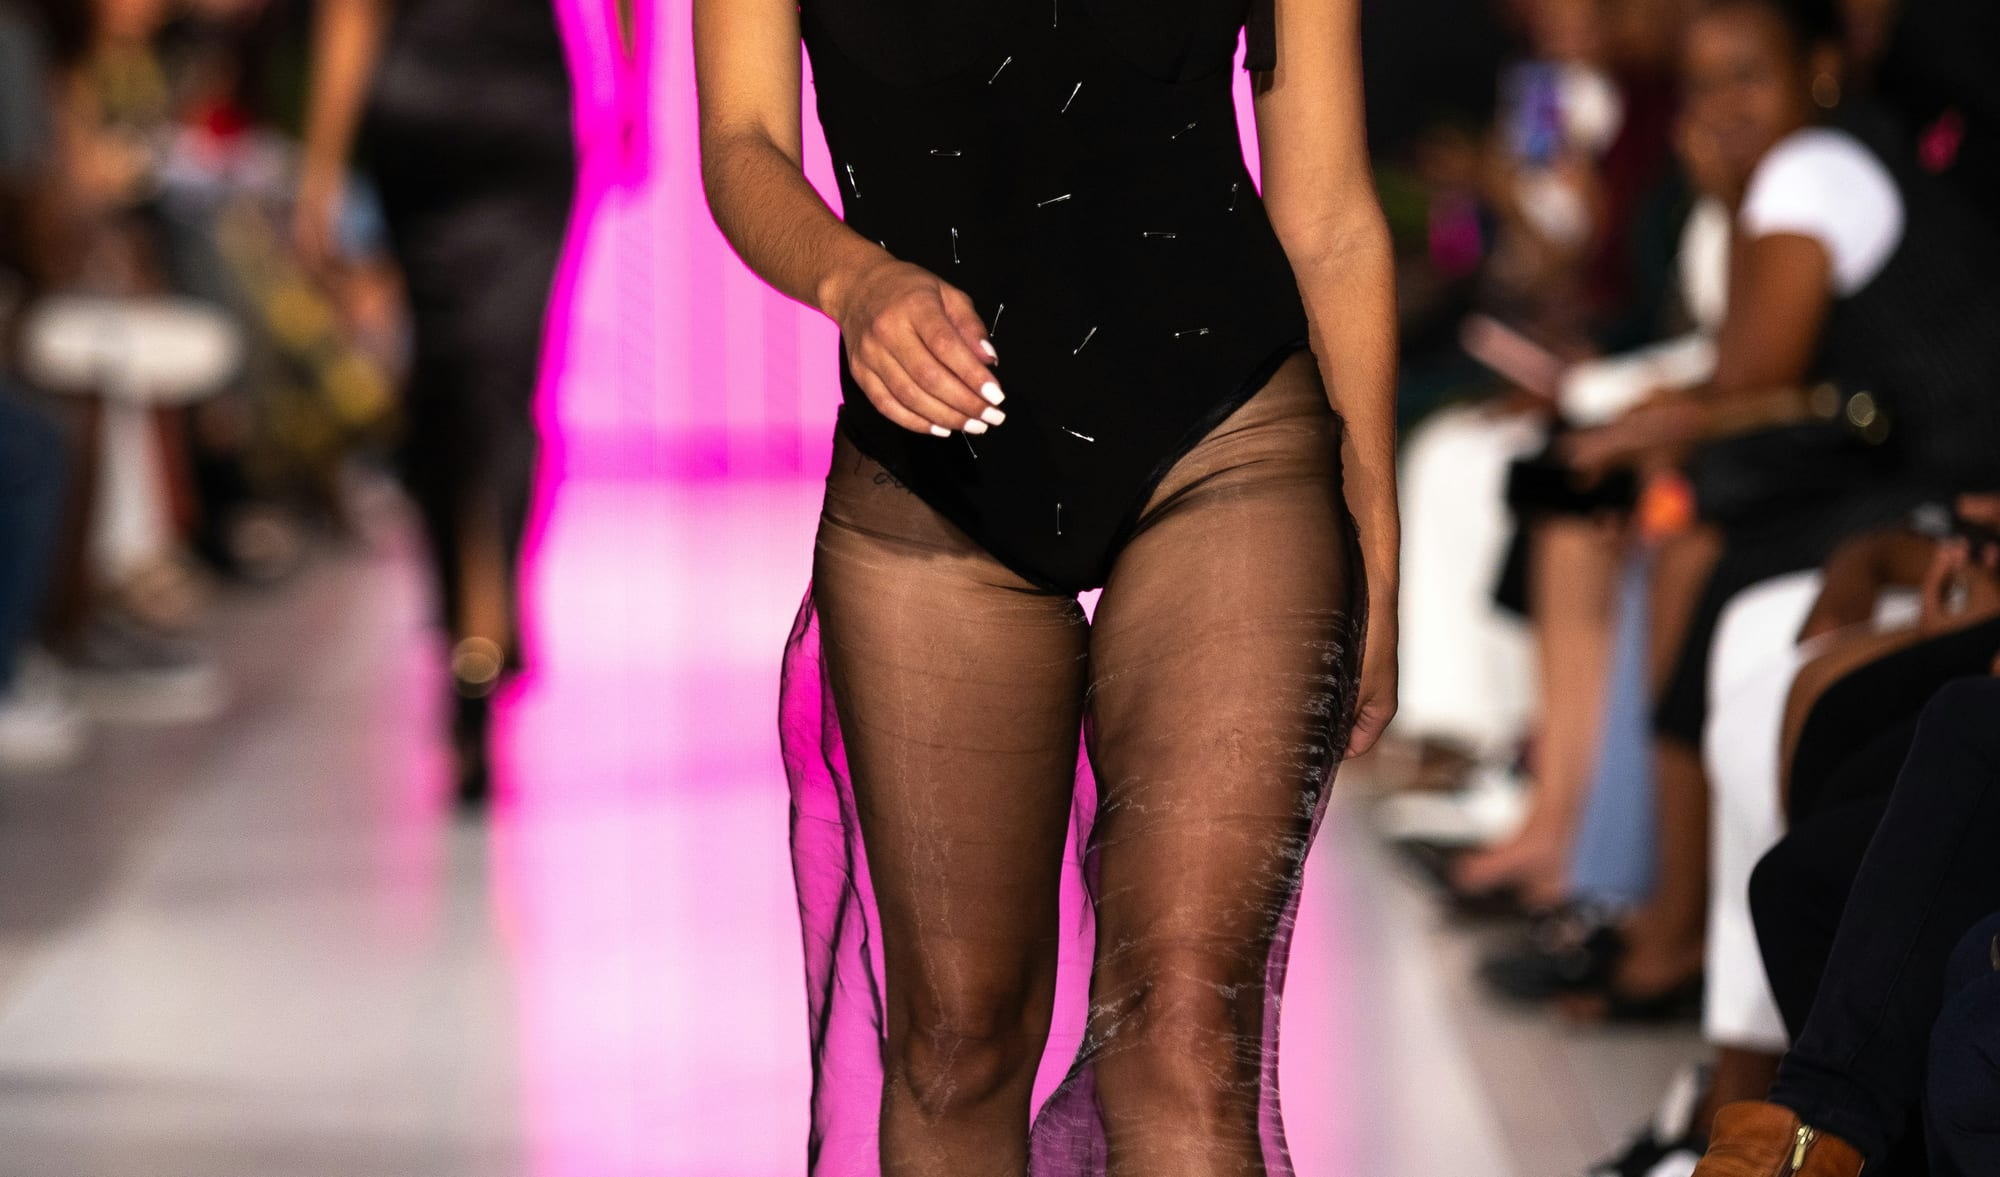
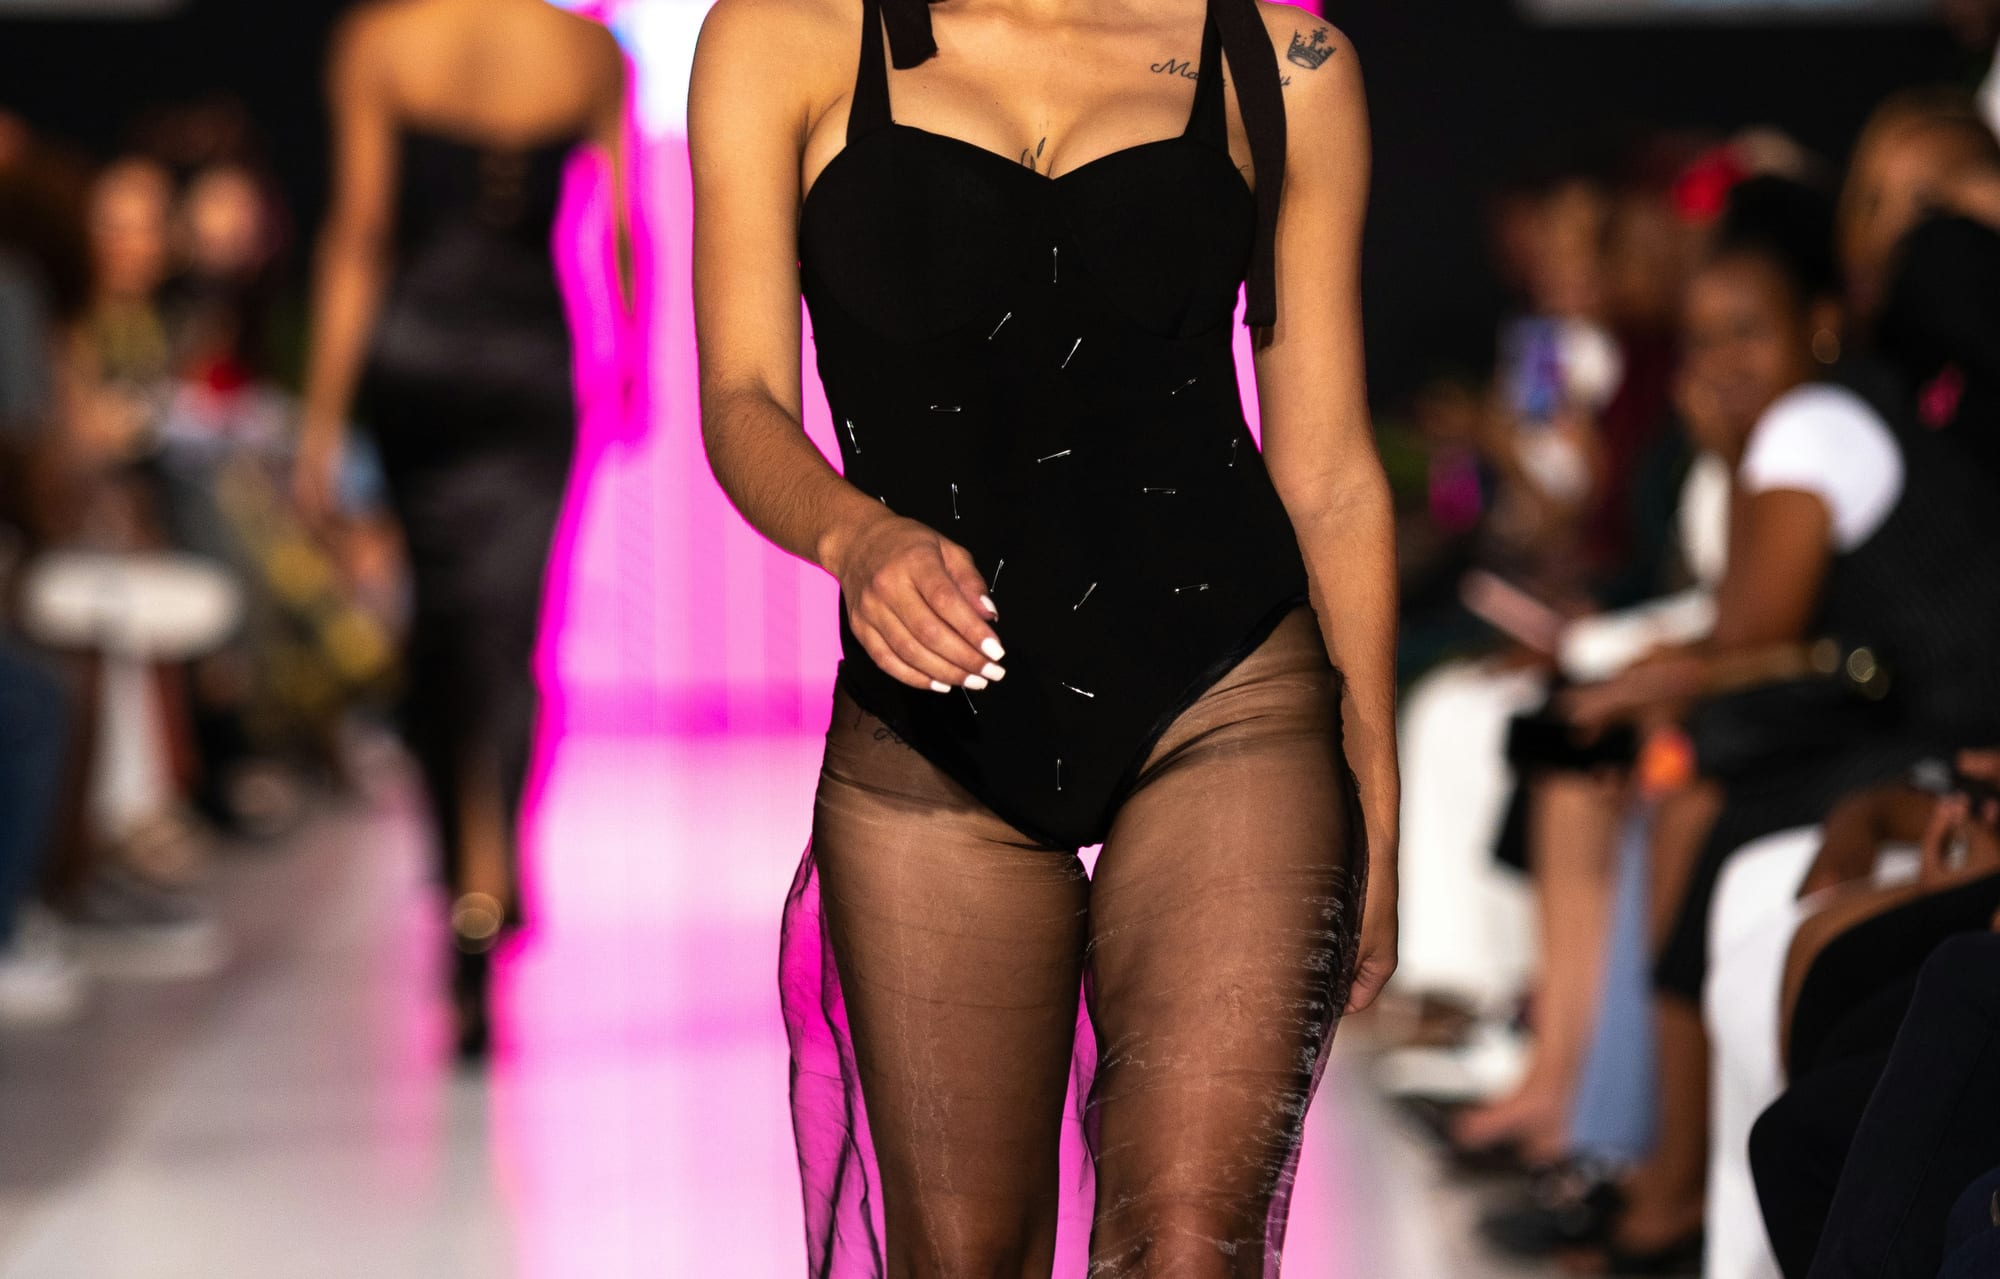
About hero: raise crop to include shoulders

diff --git a/about.html b/about.html
@@ -26,7 +26,7 @@
   </header>
 
   <section class="hero short">
-    <img class="hero-bg" src="assets/img/runway.jpg" alt="On the runway — where Shanelle's story began" style="object-position: center 40%;">
+    <img class="hero-bg" src="assets/img/runway.jpg" alt="On the runway — where Shanelle's story began" style="object-position: center 22%;">
     <div>
       <p class="eyebrow">The Story</p>
       <h1>About Juvenne</h1>
